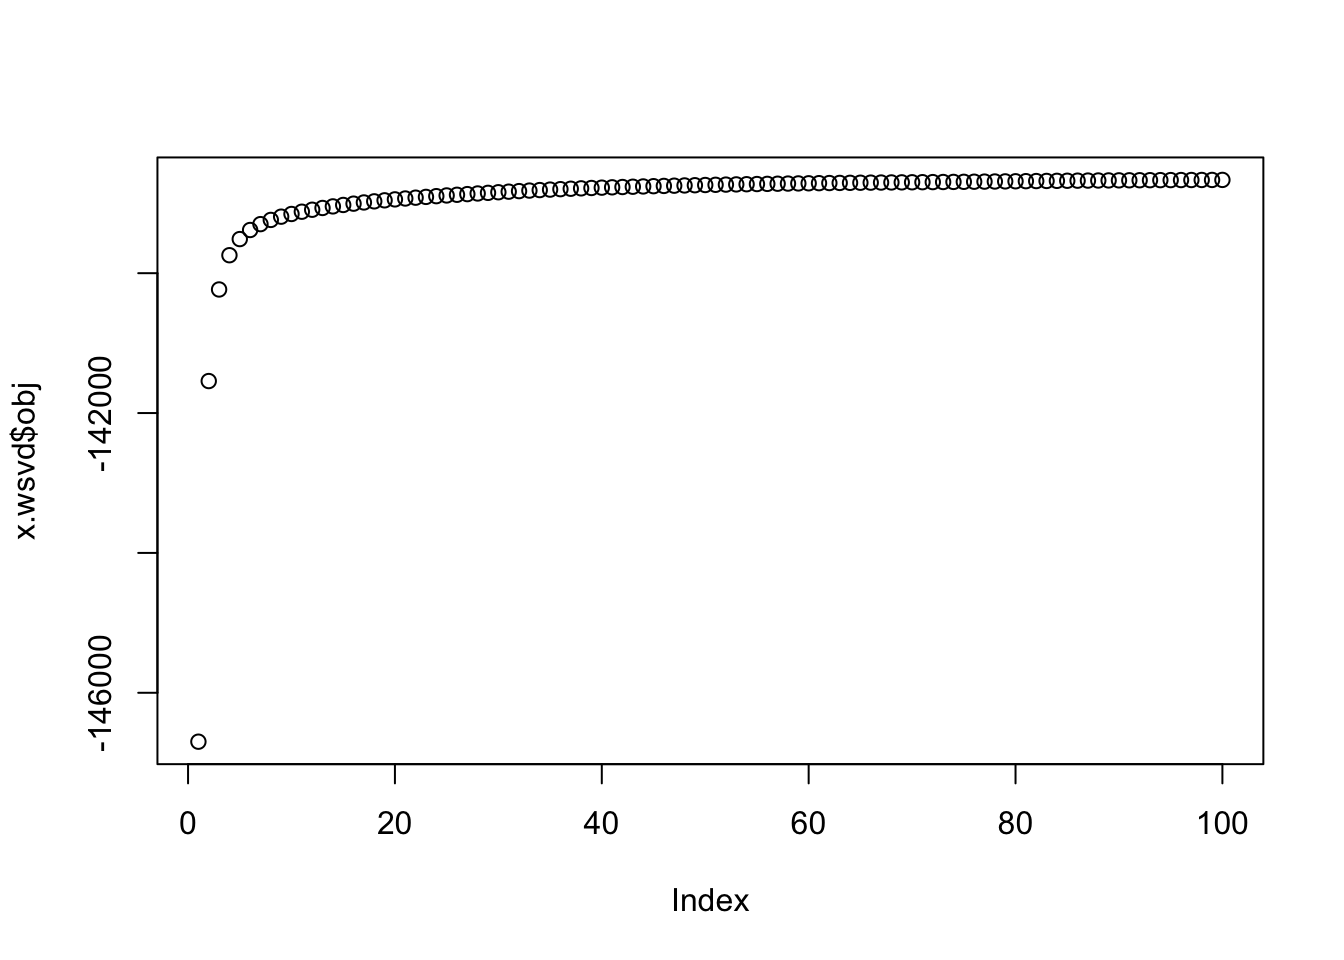
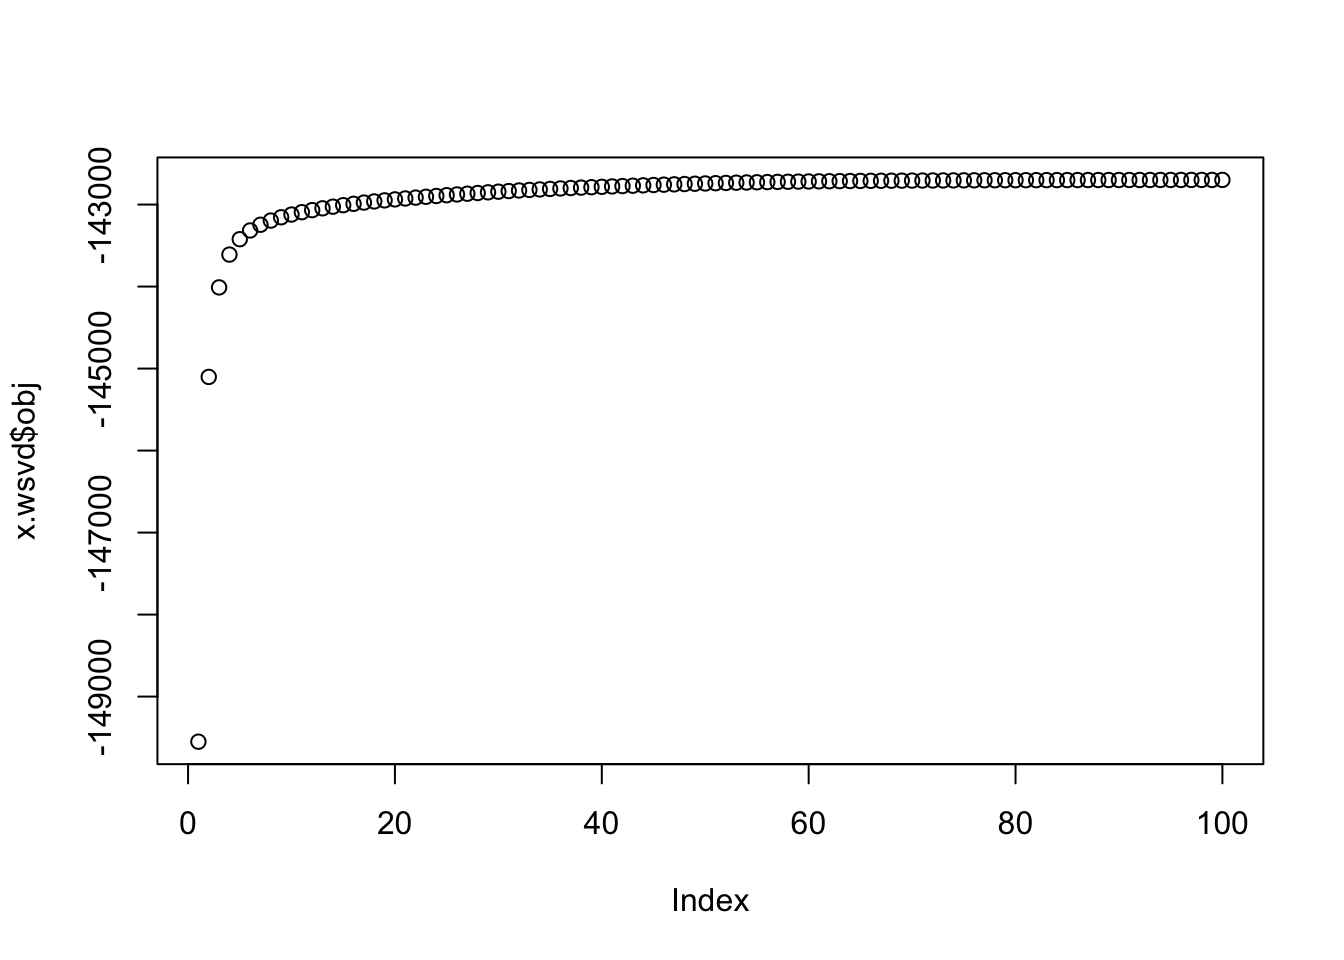
Build site.

diff --git a/docs/wSVD.html b/docs/wSVD.html
@@ -342,7 +342,7 @@ div.section {
 </details>
 </li>
 <li>
-<p><details> <summary> <strong style="color:blue;">✔</strong> <strong>Repository version:</strong> <a href="https://github.com/stephens999/misc/tree/d007eadb07206308ff6ff589f1d864a72293ff23" target="_blank">d007ead</a> </summary></p>
+<p><details> <summary> <strong style="color:blue;">✔</strong> <strong>Repository version:</strong> <a href="https://github.com/stephens999/misc/tree/6abd1067c5fa16c51e911cc3b319cc9e01e5d85e" target="_blank">6abd106</a> </summary></p>
 Great! You are using Git for version control. Tracking code development and connecting the code version to the results is critical for reproducibility. The version displayed above was the version of the Git repository at the time these results were generated. <br><br> Note that you need to be careful to ensure that all relevant files for the analysis have been committed to Git prior to generating the results (you can use <code>wflow_publish</code> or <code>wflow_git_commit</code>). workflowr only checks the R Markdown file, but you know if there are other scripts or data files that it depends on. Below is the status of the Git repository when the results were generated:
 <pre><code>
 Ignored files:
@@ -484,6 +484,40 @@ Message
 Rmd
 </td>
 <td style="text-align:left;">
+<a href="https://github.com/stephens999/misc/blob/6abd1067c5fa16c51e911cc3b319cc9e01e5d85e/analysis/wSVD.Rmd" target="_blank">6abd106</a>
+</td>
+<td style="text-align:left;">
+stephens999
+</td>
+<td style="text-align:left;">
+2018-07-14
+</td>
+<td style="text-align:left;">
+workflowr::wflow_publish(“analysis/wSVD.Rmd”)
+</td>
+</tr>
+<tr>
+<td style="text-align:left;">
+html
+</td>
+<td style="text-align:left;">
+<a href="https://cdn.rawgit.com/stephens999/misc/695703edb06015f9232e5a1caee99d98eece6ec9/docs/wSVD.html" target="_blank">695703e</a>
+</td>
+<td style="text-align:left;">
+stephens999
+</td>
+<td style="text-align:left;">
+2018-07-14
+</td>
+<td style="text-align:left;">
+Build site.
+</td>
+</tr>
+<tr>
+<td style="text-align:left;">
+Rmd
+</td>
+<td style="text-align:left;">
 <a href="https://github.com/stephens999/misc/blob/d007eadb07206308ff6ff589f1d864a72293ff23/analysis/wSVD.Rmd" target="_blank">d007ead</a>
 </td>
 <td style="text-align:left;">
@@ -555,7 +589,11 @@ workflowr::wflow_publish(“analysis/wSVD.Rmd”)
 <div id="code" class="section level1">
 <h1>Code</h1>
 <p>I started coding an EM algorithm that imputes <span class="math inline">\(Z\)</span> each iteration. I haven’t tested it, so there may be bugs … but the objective seems to increase. This code may or may not be useful to build on.</p>
-<pre class="r"><code>wSVD = function(x,s,k,niter=100,tau=1e6){
+<pre class="r"><code>wSVD = function(x,s,k,niter=100,tau=NULL){
+  if(is.null(tau)){ #for now just estimate tau by residual variance from fit of first k svd
+    x.svd = svd(x,k,k)
+    tau = 1/mean((x - x.svd$u %*% diag(x.svd$d[1:k]) %*% t(x.svd$v))^2) 
+  }
   n = nrow(x)
   p = ncol(x)
   z = matrix(0,nrow=n,ncol=p)
@@ -580,17 +618,137 @@ x = matrix(rnorm(n*p,0,s),nrow=n,ncol=p)
 x.wsvd = wSVD(x,s,3,10,1)
 plot(x.wsvd$obj)</code></pre>
 <p><img src="figure/wSVD.Rmd/unnamed-chunk-2-1.png" width="672" style="display: block; margin: auto;" /></p>
+<details> <summary><em>Expand here to see past versions of unnamed-chunk-2-1.png:</em></summary>
+<table style="border-collapse:separate; border-spacing:5px;">
+<thead>
+<tr>
+<th style="text-align:left;">
+Version
+</th>
+<th style="text-align:left;">
+Author
+</th>
+<th style="text-align:left;">
+Date
+</th>
+</tr>
+</thead>
+<tbody>
+<tr>
+<td style="text-align:left;">
+<a href="https://github.com/stephens999/misc/blob/695703edb06015f9232e5a1caee99d98eece6ec9/docs/figure/wSVD.Rmd/unnamed-chunk-2-1.png" target="_blank">695703e</a>
+</td>
+<td style="text-align:left;">
+stephens999
+</td>
+<td style="text-align:left;">
+2018-07-14
+</td>
+</tr>
+</tbody>
+</table>
+<p></details></p>
 <pre class="r"><code>x.wsvd2 = wSVD(x,s,3,10,1e6)
 plot(x.wsvd2$svd$u[,1],svd(x,3,3)$u[,1])</code></pre>
 <p><img src="figure/wSVD.Rmd/unnamed-chunk-2-2.png" width="672" style="display: block; margin: auto;" /></p>
+<details> <summary><em>Expand here to see past versions of unnamed-chunk-2-2.png:</em></summary>
+<table style="border-collapse:separate; border-spacing:5px;">
+<thead>
+<tr>
+<th style="text-align:left;">
+Version
+</th>
+<th style="text-align:left;">
+Author
+</th>
+<th style="text-align:left;">
+Date
+</th>
+</tr>
+</thead>
+<tbody>
+<tr>
+<td style="text-align:left;">
+<a href="https://github.com/stephens999/misc/blob/695703edb06015f9232e5a1caee99d98eece6ec9/docs/figure/wSVD.Rmd/unnamed-chunk-2-2.png" target="_blank">695703e</a>
+</td>
+<td style="text-align:left;">
+stephens999
+</td>
+<td style="text-align:left;">
+2018-07-14
+</td>
+</tr>
+</tbody>
+</table>
+<p></details></p>
 <pre class="r"><code>plot(x.wsvd$svd$u[,1],svd(x,3,3)$u[,1])</code></pre>
 <p><img src="figure/wSVD.Rmd/unnamed-chunk-2-3.png" width="672" style="display: block; margin: auto;" /></p>
+<details> <summary><em>Expand here to see past versions of unnamed-chunk-2-3.png:</em></summary>
+<table style="border-collapse:separate; border-spacing:5px;">
+<thead>
+<tr>
+<th style="text-align:left;">
+Version
+</th>
+<th style="text-align:left;">
+Author
+</th>
+<th style="text-align:left;">
+Date
+</th>
+</tr>
+</thead>
+<tbody>
+<tr>
+<td style="text-align:left;">
+<a href="https://github.com/stephens999/misc/blob/695703edb06015f9232e5a1caee99d98eece6ec9/docs/figure/wSVD.Rmd/unnamed-chunk-2-3.png" target="_blank">695703e</a>
+</td>
+<td style="text-align:left;">
+stephens999
+</td>
+<td style="text-align:left;">
+2018-07-14
+</td>
+</tr>
+</tbody>
+</table>
+<p></details></p>
 <p>Now this version is non-constant variance. At least the objective is increasing…</p>
 <pre class="r"><code>s = matrix(rgamma(n*p,1,1),nrow=n,ncol=p)
 x = matrix(rnorm(n*p,0,s),nrow=n,ncol=p)
-x.wsvd = wSVD(x,s,30,100,1)
+x.wsvd = wSVD(x,s,30,100)
 plot(x.wsvd$obj)</code></pre>
 <p><img src="figure/wSVD.Rmd/unnamed-chunk-3-1.png" width="672" style="display: block; margin: auto;" /></p>
+<details> <summary><em>Expand here to see past versions of unnamed-chunk-3-1.png:</em></summary>
+<table style="border-collapse:separate; border-spacing:5px;">
+<thead>
+<tr>
+<th style="text-align:left;">
+Version
+</th>
+<th style="text-align:left;">
+Author
+</th>
+<th style="text-align:left;">
+Date
+</th>
+</tr>
+</thead>
+<tbody>
+<tr>
+<td style="text-align:left;">
+<a href="https://github.com/stephens999/misc/blob/695703edb06015f9232e5a1caee99d98eece6ec9/docs/figure/wSVD.Rmd/unnamed-chunk-3-1.png" target="_blank">695703e</a>
+</td>
+<td style="text-align:left;">
+stephens999
+</td>
+<td style="text-align:left;">
+2018-07-14
+</td>
+</tr>
+</tbody>
+</table>
+<p></details></p>
 </div>
 <div id="applying-to-poisson-data" class="section level1">
 <h1>Applying to Poisson data</h1>
